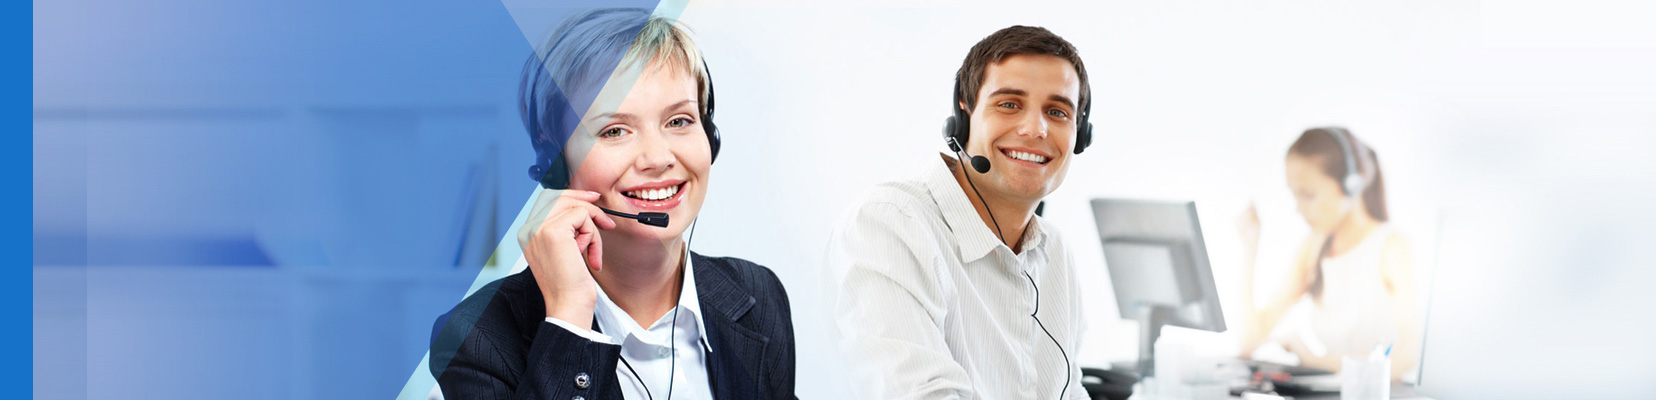
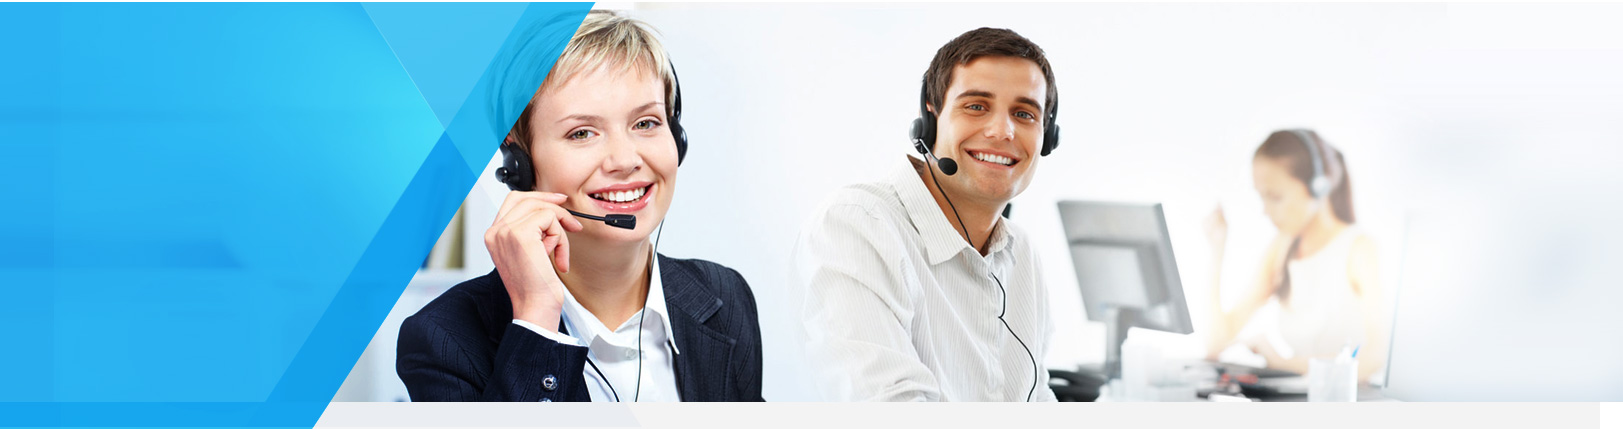
- optimize images

diff --git a/packages/frontend/server/views/rd.html b/packages/frontend/server/views/rd.html
@@ -6,59 +6,61 @@
 
 {% block stylesheet %}
 {% for file in assets['/css/rd.css'] %}
-    <link href="{{file}}" rel="stylesheet">
+	<link href="{{file}}" rel="stylesheet">
 {% endfor %}
 
 {% endblock %}
 
 {% block script %}
 {% for file in assets['/js/rd.js'] %}
-    <script src="{{file}}"></script>
+	<script src="{{file}}"></script>
 {% endfor %}
 
 {% endblock %}
 
 {% block content %}
 <div class="container-fluid page-top-container-fluid rd-page-top-container-fluid">
-    <div class="container">
-        <h1 class="text-center">{{__('page-rd.title.title')}}</h1>
-    </div>
+	<div class="container">
+		<h1 class="text-center">{{__('page-rd.title.title')}}</h1>
+	</div>
 </div><!-- /R&D-page-top-container-fluid -->
 <div class="container-fluid page-bottom-container-fluid">
-    <div class="container">
-    	<div class="rd-page-container">
-    		<h2>{{__('page-rd.title.title-large')}}</h2>
-    		<p>{{__('page-rd.description.paragraph1')}}</p>
-    		<p>{{__('page-rd.description.paragraph2')}}</p>
-    		<p>{{__('page-rd.description.paragraph3')}}</p>
-    		<div class="rd-page-container-img-1">
-    			<div class="rd-left-img">
-    				<img src="{{assets._('/img/rd-img1.png')}}">
-    			</div>
-    			<div class="rd-right-img">
-                    <img src="{{assets._('/img/rd-img2.png')}}">
-                    <img src="{{assets._('/img/rd-img3.png')}}">
-    			</div>
-    		</div>
-    		<h3>{{__('page-rd.title.title-medium')}}</h3>
-    		<p><b>{{__('page-rd.title.title-small')}}</b>{{__('page-rd.description.paragraph4')}}</p>
-    		<div class="rd-page-container-img-2">
-    			<img src="{{assets._('/img/rd-img4.png')}}">
-                <img src="{{assets._('/img/rd-img5.png')}}">
-    		</div>
-    		<p>{{__('page-rd.description.paragraph5')}}</p>
-    		<p><a href="{{__('page-rd.title.link')}}">{{__('page-rd.title.link')}}</a>{{__('page-rd.description.paragraph6')}}</p>
-            <p>{{__('page-rd.description.paragraph7')}}</p>
-    		<b>{{__('page-rd.title.title-small2')}}</b><p>{{__('page-rd.description.paragraph8')}}</p>
-    		<div class="rd-page-container-img-3">
-    			<img src="{{assets._('/img/rd-img6.png')}}">
-    		</div>
-    		<div class="rd-page-container-bottom">
-    			<img src="{{assets._('/img/rd-img7.png')}}">
-    			<p><b>{{__('page-rd.title.name')}}</b><br><br>{{__('page-rd.description.paragraph9')}}</p>
-    		</div>
-    	</div>
-    </div>
+	<div class="container">
+		<div class="rd-page-container">
+			<h2>{{__('page-rd.title.title-large')}}</h2>
+			<p>{{__('page-rd.description.paragraph1')}}</p>
+			<p>{{__('page-rd.description.paragraph2')}}</p>
+			<p>{{__('page-rd.description.paragraph3')}}</p>
+			<div class="rd-page-container-img-1">
+				<div class="rd-left-img">
+					<img src="{{assets._('/img/rd-img1.jpg')}}">
+				</div>
+				<div class="rd-right-img">
+					<img src="{{assets._('/img/rd-img2.jpg')}}">
+					<img src="{{assets._('/img/rd-img3.jpg')}}">
+				</div>
+			</div>
+			<h3>{{__('page-rd.title.title-medium')}}</h3>
+			<p><b>{{__('page-rd.title.title-small')}}</b>{{__('page-rd.description.paragraph4')}}</p>
+			<div class="rd-page-container-img-2">
+				<img src="{{assets._('/img/rd-img4.png')}}">
+				<img src="{{assets._('/img/rd-img5.png')}}">
+			</div>
+			<p>{{__('page-rd.description.paragraph5')}}</p>
+			<p><a href="{{__('page-rd.title.link')}}">{{__('page-rd.title.link')}}</a>{{__('page-rd.description.paragraph6')}}</p>
+			<p>{{__('page-rd.description.paragraph7')}}</p>
+			<b>{{__('page-rd.title.title-small2')}}</b><p>{{__('page-rd.description.paragraph8')}}</p>
+			<div class="rd-page-container-img-3">
+				<img src="{{assets._('/img/rd-img6.png')}}">
+			</div>
+			<!--
+			<div class="rd-page-container-bottom">
+				<img src="{{assets._('/img/rd-img7.png')}}">
+				<p><b>{{__('page-rd.title.name')}}</b><br><br>{{__('page-rd.description.paragraph9')}}</p>
+			</div>
+			-->
+		</div>
+	</div>
 </div><!-- /rd-page-bottom-container-fluid -->
 <div class="clear"></div>
 {% endblock %}

diff --git a/packages/frontend/public/assets/js/home.js b/packages/frontend/public/assets/js/home.js
@@ -210,7 +210,7 @@
 			var elementVideo = '<div class="video-box" id="video-box">';
 			elementVideo += '<div class="video-box-container">';
 			elementVideo += '<div class="video">';
-			elementVideo += '<iframe width="640" height="480" src="//www.youtube.com/embed/DD1xnGubRI8?autoplay=1" frameborder="0" allowfullscreen></iframe>';
+			elementVideo += '<iframe width="640" height="480" src="//www.youtube.com/embed/lF248fnLcgU?autoplay=1" frameborder="0" allowfullscreen></iframe>';
 			elementVideo += '</div>';
 			elementVideo += '</div>';
 			elementVideo += '</div>';
@@ -220,7 +220,9 @@
 			$('#video-box').fadeIn(300, function() {
 				$(this).click(function () {
 					var self = $(this);
-					self.fadeOut(150, self.remove);
+					self.fadeOut(150, function() {
+						$('.video-box').remove();
+					});
 				});
 			});
 		});

diff --git a/packages/frontend/public/assets/css/services.css b/packages/frontend/public/assets/css/services.css
@@ -8,15 +8,15 @@
     padding-bottom: 0;
 }
 .services-page-top-container-fluid {
-    background: url('../img/bg-services.png') no-repeat center bottom;
+    background: url('../img/bg-services.jpg') no-repeat center bottom;
     background-size: cover;
 }
 .domains-page-top-container-fluid {
-    background: url('../img/bg-domains.png') no-repeat center bottom;
+    background: url('../img/bg-domains.jpg') no-repeat center bottom;
     background-size: cover;
 }
 .technologies-page-top-container-fluid {
-    background: url('../img/bg-technologies.png') no-repeat center bottom;
+    background: url('../img/bg-technologies.jpg') no-repeat center bottom;
     background-size: cover;
 }
 .services-page-top-container-fluid h1 {

diff --git a/packages/frontend/public/assets/js/logo-effect.js b/packages/frontend/public/assets/js/logo-effect.js
@@ -188,7 +188,7 @@
 
                     var vector = new THREE.Vector3(
                         ((e.clientX + window.scrollX) / container.offsetWidth) * 2 - 1,
-                        -((e.clientY) / container.offsetHeight) * 2 + 1,
+                        -((e.clientY + window.scrollY) / container.offsetHeight) * 2 + 1,
                         0.5
                     );
 

diff --git a/packages/frontend/public/assets/css/success-stories.css b/packages/frontend/public/assets/css/success-stories.css
@@ -1,6 +1,6 @@
 /* Success Stories Top Page */
 .success-stories-page-top-container-fluid {
-    background: url('../img/bg-success-stories.png') no-repeat bottom center;
+    background: url('../img/bg-success-stories.jpg') no-repeat bottom center;
     background-size: cover;
 }
 .success-stories-page-top-container-fluid h1 {

diff --git a/packages/frontend/public/assets/css/contract-models.css b/packages/frontend/public/assets/css/contract-models.css
@@ -1,6 +1,6 @@
 /* Contract model */
 .contract-models-page-top-container-fluid {
-    background: url('../img/bg-contract-models.png') no-repeat center bottom;
+    background: url('../img/bg-contract-models.jpg') no-repeat center bottom;
     background-size: cover;
 }
 .contract-models-page-top-container-fluid h1 {

diff --git a/packages/frontend/public/assets/css/contact.css b/packages/frontend/public/assets/css/contact.css
@@ -1,6 +1,6 @@
 /* Contact Page Top  */
 .contact-page-top-container-fluid {
-    background: #f6f1ee url('../img/bg-contact.png') no-repeat bottom center;
+    background: #f6f1ee url('../img/bg-contact.jpg') no-repeat bottom center;
     background-size: cover;
 }
 .contact-page-top-container-fluid h1 {

diff --git a/packages/frontend/public/assets/css/download.css b/packages/frontend/public/assets/css/download.css
@@ -1,6 +1,6 @@
 /* Download Top Page */
 .download-page-top-container-fluid {
-    background: url('../img/bg-download.png') no-repeat center bottom;
+    background: url('../img/bg-download.jpg') no-repeat center bottom;
     background-size: cover;
 }
 .download-page-top-container-fluid h1 {

diff --git a/packages/frontend/public/assets/css/career.css b/packages/frontend/public/assets/css/career.css
@@ -1,6 +1,6 @@
 /* Career Top Page */
 .career-page-top-container-fluid {
-    background: url('../img/bg-career.png') no-repeat center bottom;
+    background: url('../img/bg-career.jpg') no-repeat center bottom;
     background-size: cover
 }
 .career-page-top-container-fluid h1 {

diff --git a/packages/frontend/public/assets/css/rd.css b/packages/frontend/public/assets/css/rd.css
@@ -1,6 +1,6 @@
 /* R&D Center Top Page */
 .rd-page-top-container-fluid {
-    background: url('../img/bg-top-rd.png') no-repeat center bottom;
+    background: url('../img/bg-top-rd.jpg') no-repeat center bottom;
     background-size: cover;
 }
 .rd-page-top-container-fluid h1 {

diff --git a/packages/frontend/public/assets/js/about.js b/packages/frontend/public/assets/js/about.js
@@ -28,10 +28,11 @@
 			$('#video-box').fadeIn(300, function() {
 				$(this).click(function () {
 					var self = $(this);
-					self.fadeOut(150, self.remove);
+					self.fadeOut(150, function() {
+						$('.video-box').remove();
+					});
 				});
 			});
 		});
 	});
-
 }());

diff --git a/packages/frontend/public/assets/css/home.css b/packages/frontend/public/assets/css/home.css
@@ -540,7 +540,7 @@
     position: relative;
 }
 .technology-container h2 {
-    margin-bottom: 0px;
+    margin-bottom: 0;
     margin-top: 50px;
     font-weight: 300;
     color: #000000;
